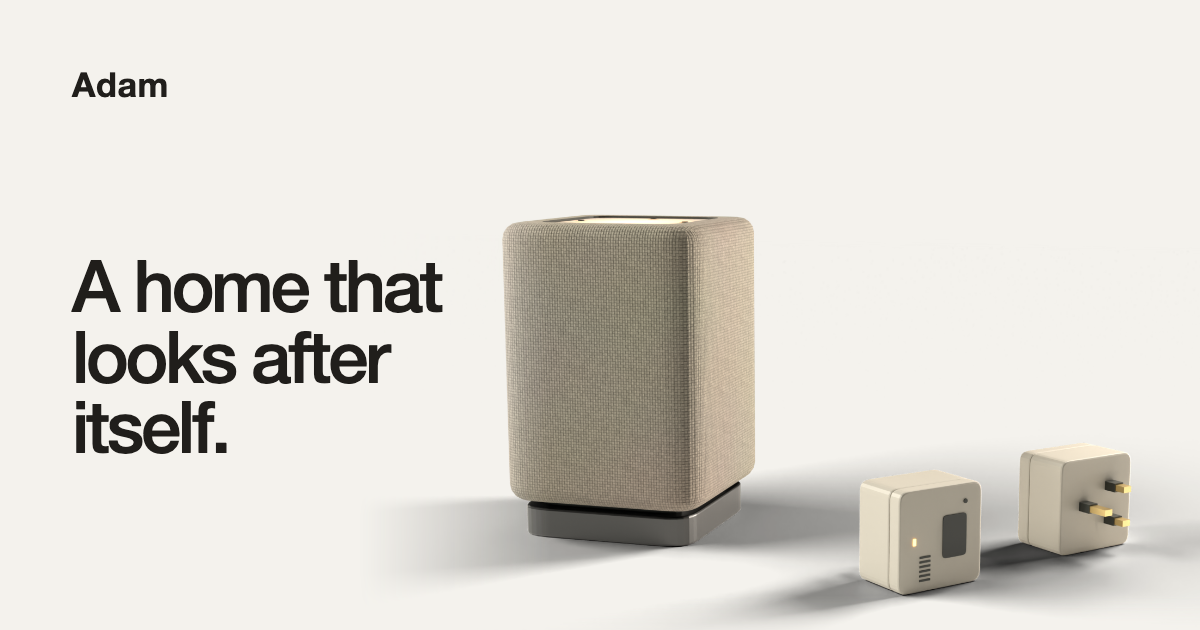
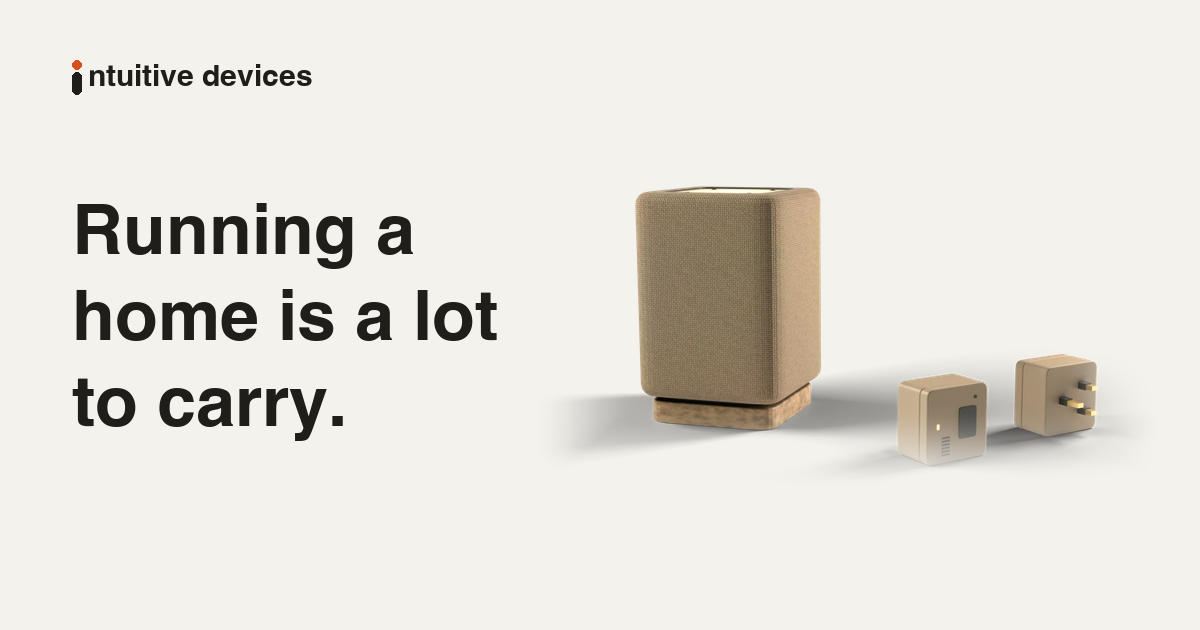
New share image matching the hero

Changed region(s): [[0.0617, 0.2714, 1.0, 0.9952], [0.0617, 0.0905, 0.2775, 0.1508]]

diff --git a/index.html b/index.html
@@ -13,14 +13,14 @@
   <meta property="og:title" content="Adam: the home computer, by Intuitive">
   <meta property="og:description" content="Adam is a home computer in development, designed to understand your home, help coordinate everyday life and act with your approval.">
   <meta property="og:url" content="https://www.heyintuitive.com/">
-  <meta property="og:image" content="https://www.heyintuitive.com/og.png">
+  <meta property="og:image" content="https://www.heyintuitive.com/og.png?v=2">
   <meta property="og:image:width" content="1200">
   <meta property="og:image:height" content="630">
   <meta property="og:image:alt" content="The Adam speaker: woven fabric body on a graphite base. The home computer.">
   <meta name="twitter:card" content="summary_large_image">
   <meta name="twitter:title" content="Adam: the home computer, by Intuitive">
   <meta name="twitter:description" content="Adam is a home computer in development, designed to understand your home, help coordinate everyday life and act with your approval.">
-  <meta name="twitter:image" content="https://www.heyintuitive.com/og.png">
+  <meta name="twitter:image" content="https://www.heyintuitive.com/og.png?v=2">
   <link rel="preconnect" href="https://fonts.googleapis.com">
   <link rel="preconnect" href="https://fonts.gstatic.com" crossorigin>
   <link rel="stylesheet" href="https://fonts.googleapis.com/css2?family=Geist:wght@400;500;600&family=Geist+Mono:wght@400;500&display=swap">
